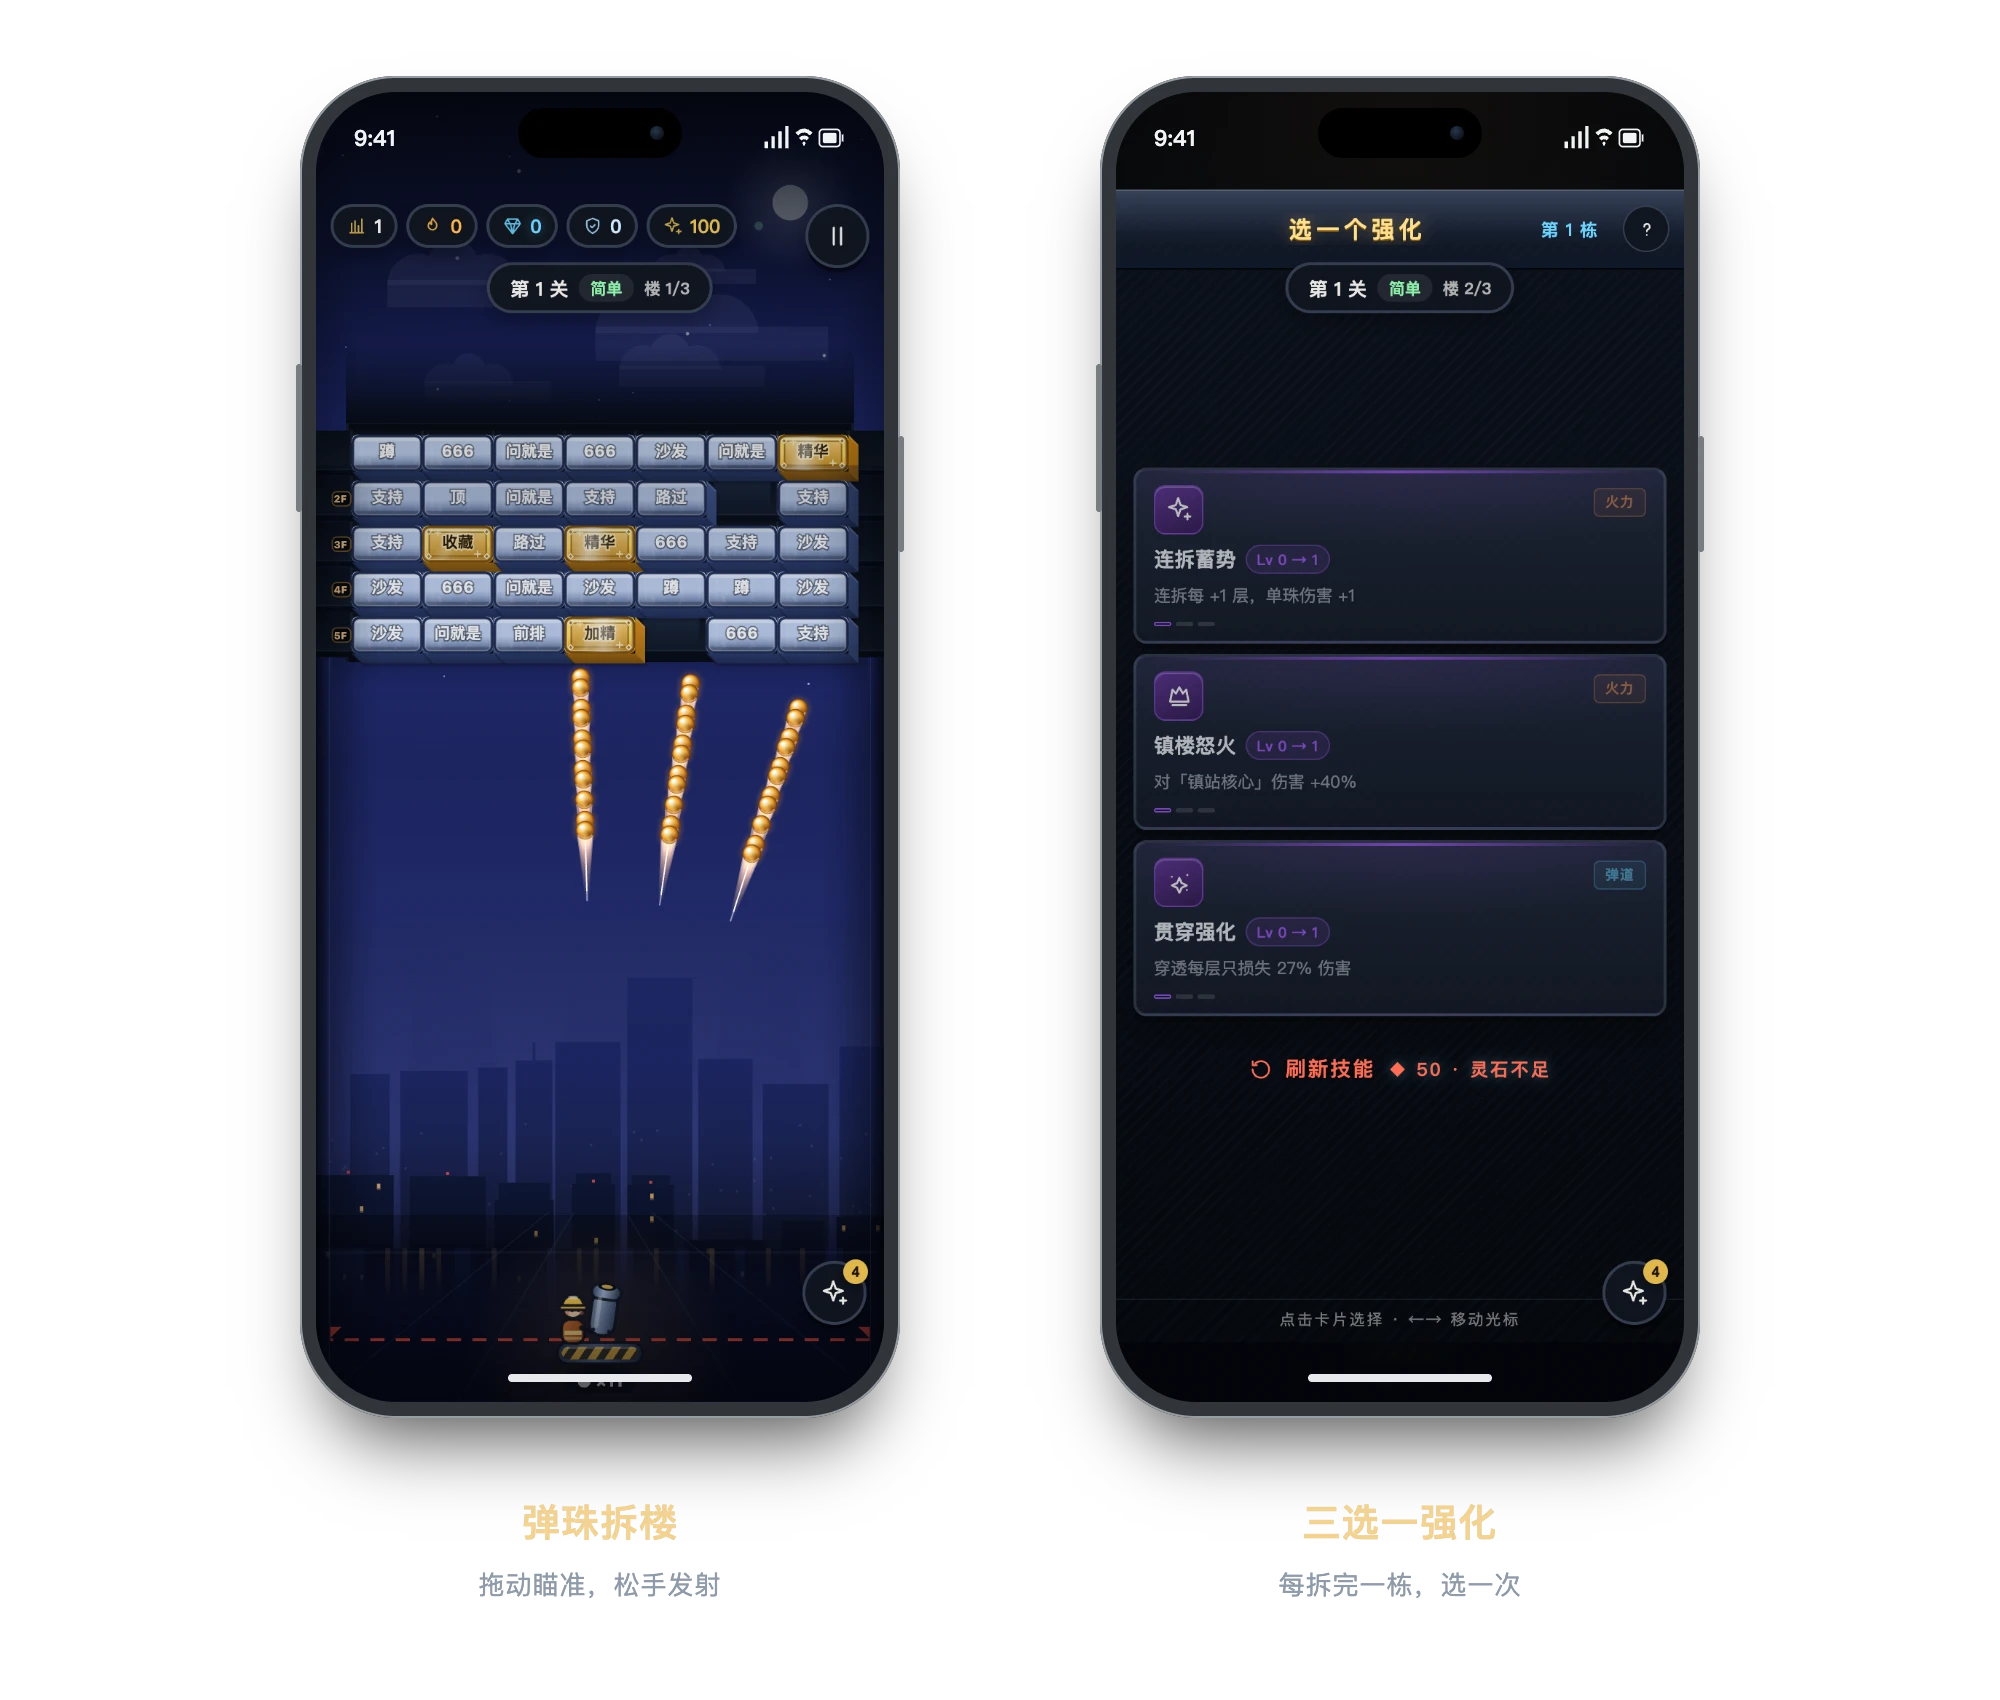
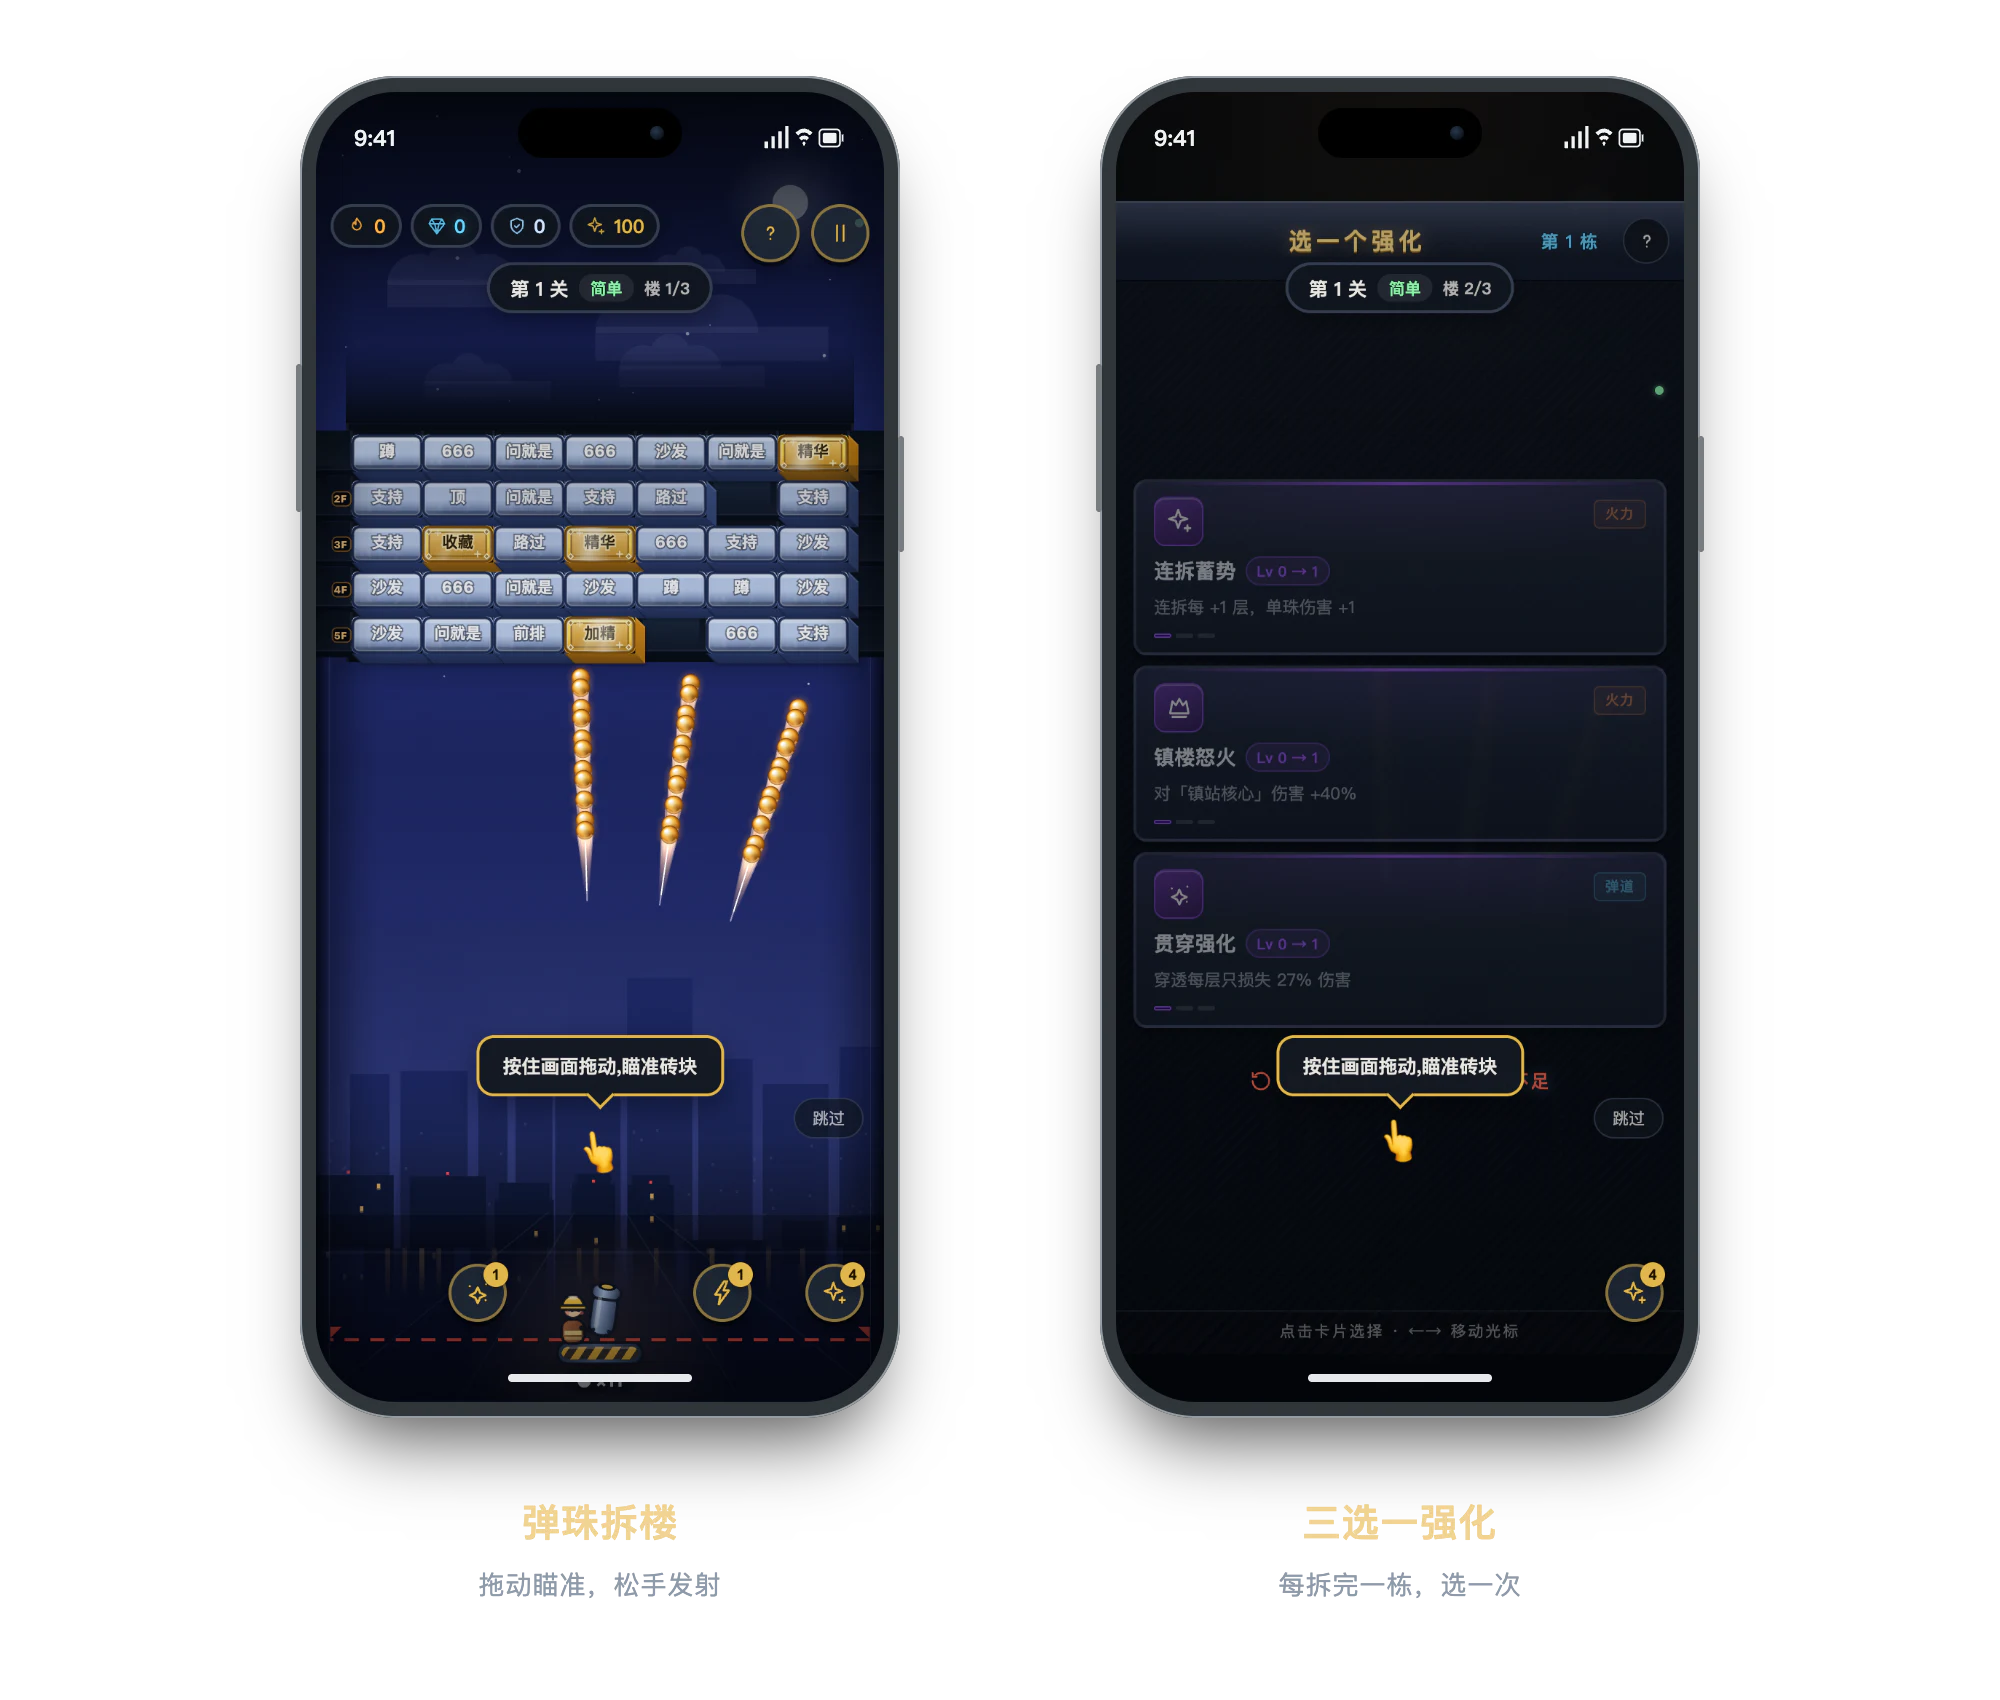
style: 悬浮圆钮统一 40px 同基线 + README 截图重生成(修字幕压缩糊块)
- 圆钮统一:暂停 44→40 对齐帮助钮;技能/构筑钮 44→40,底边距统一 safe+14
- 技能钮左右各距中线 84px 严格对称;删掉 v16 纵排残留规则(压过横排布局的根因)
- readme-assets:合成图改 PNG 截图 + cwebp -sharp_yuv 编码,修小字字幕被
  Chrome 自带 WebP 压成糊块的问题(133KB,与旧版同量级);无 cwebp 时回退 q100
- hero 明暗两版重生成:圆钮对齐 + 最新 UI(关卡牌/金色技能环/Q版炮台)

diff --git a/src/style.css b/src/style.css
@@ -179,10 +179,11 @@ body {
   pointer-events: auto;
 }
 
-/* Circular floating icon button (pause / help / settings). */
+/* Circular floating icon button (pause / help / settings / skills / build).
+   统一 40px:所有悬浮圆钮同尺寸同基线,也不至于挡住底部拖拽瞄准区。 */
 .fab {
-  width: 44px;
-  height: 44px;
+  width: 40px;
+  height: 40px;
   flex: 0 0 auto;
   border-radius: 50%;
   border: 2px solid var(--panel-border);
@@ -201,8 +202,8 @@ body {
 }
 
 .fab svg {
-  width: 20px;
-  height: 20px;
+  width: 18px;
+  height: 18px;
 }
 
 .fab:active {
@@ -616,8 +617,8 @@ body {
 
 .fab--build {
   position: absolute;
-  right: calc(var(--safe-area-right) + 12px);
-  bottom: calc(var(--safe-area-bottom) + 12px);
+  right: calc(var(--safe-area-right) + 14px);
+  bottom: calc(var(--safe-area-bottom) + 14px);
   z-index: 9;
 }
 
@@ -7035,18 +7036,6 @@ body,
   transition: transform 0.15s ease;
 }
 
-/* 主动技能:左下角纵排两枚 */
-.skill-btn {
-  position: absolute;
-  bottom: calc(var(--safe-area-bottom) + 12px);
-  left: calc(var(--safe-area-left) + 12px);
-  z-index: 9;
-}
-
-#skill-slow {
-  bottom: calc(var(--safe-area-bottom) + 68px);
-}
-
 /* 成就行:金圆徽 + 层级布局 */
 .ach-row__medal {
   flex: 0 0 auto;
@@ -7119,21 +7108,17 @@ body,
   color: #a87412;
 }
 
-/* 对局技能钮:居中对称排在弹珠计数两侧 */
+/* 对局技能钮:左右对称骑在炮台两侧,底边距与构筑钮一致 */
 .skill-btn {
-  bottom: calc(var(--safe-area-bottom) + 17px);
+  bottom: calc(var(--safe-area-bottom) + 14px);
 }
 
 #skill-blast {
-  left: calc(50% - 102px);
+  left: calc(50% - 104px);
 }
 
 #skill-slow {
-  left: calc(50% + 56px);
-}
-
-#skill-slow {
-  bottom: calc(var(--safe-area-bottom) + 17px);
+  left: calc(50% + 64px);
 }
 
 /* 顶部右侧圆钮组:小尺寸 */
